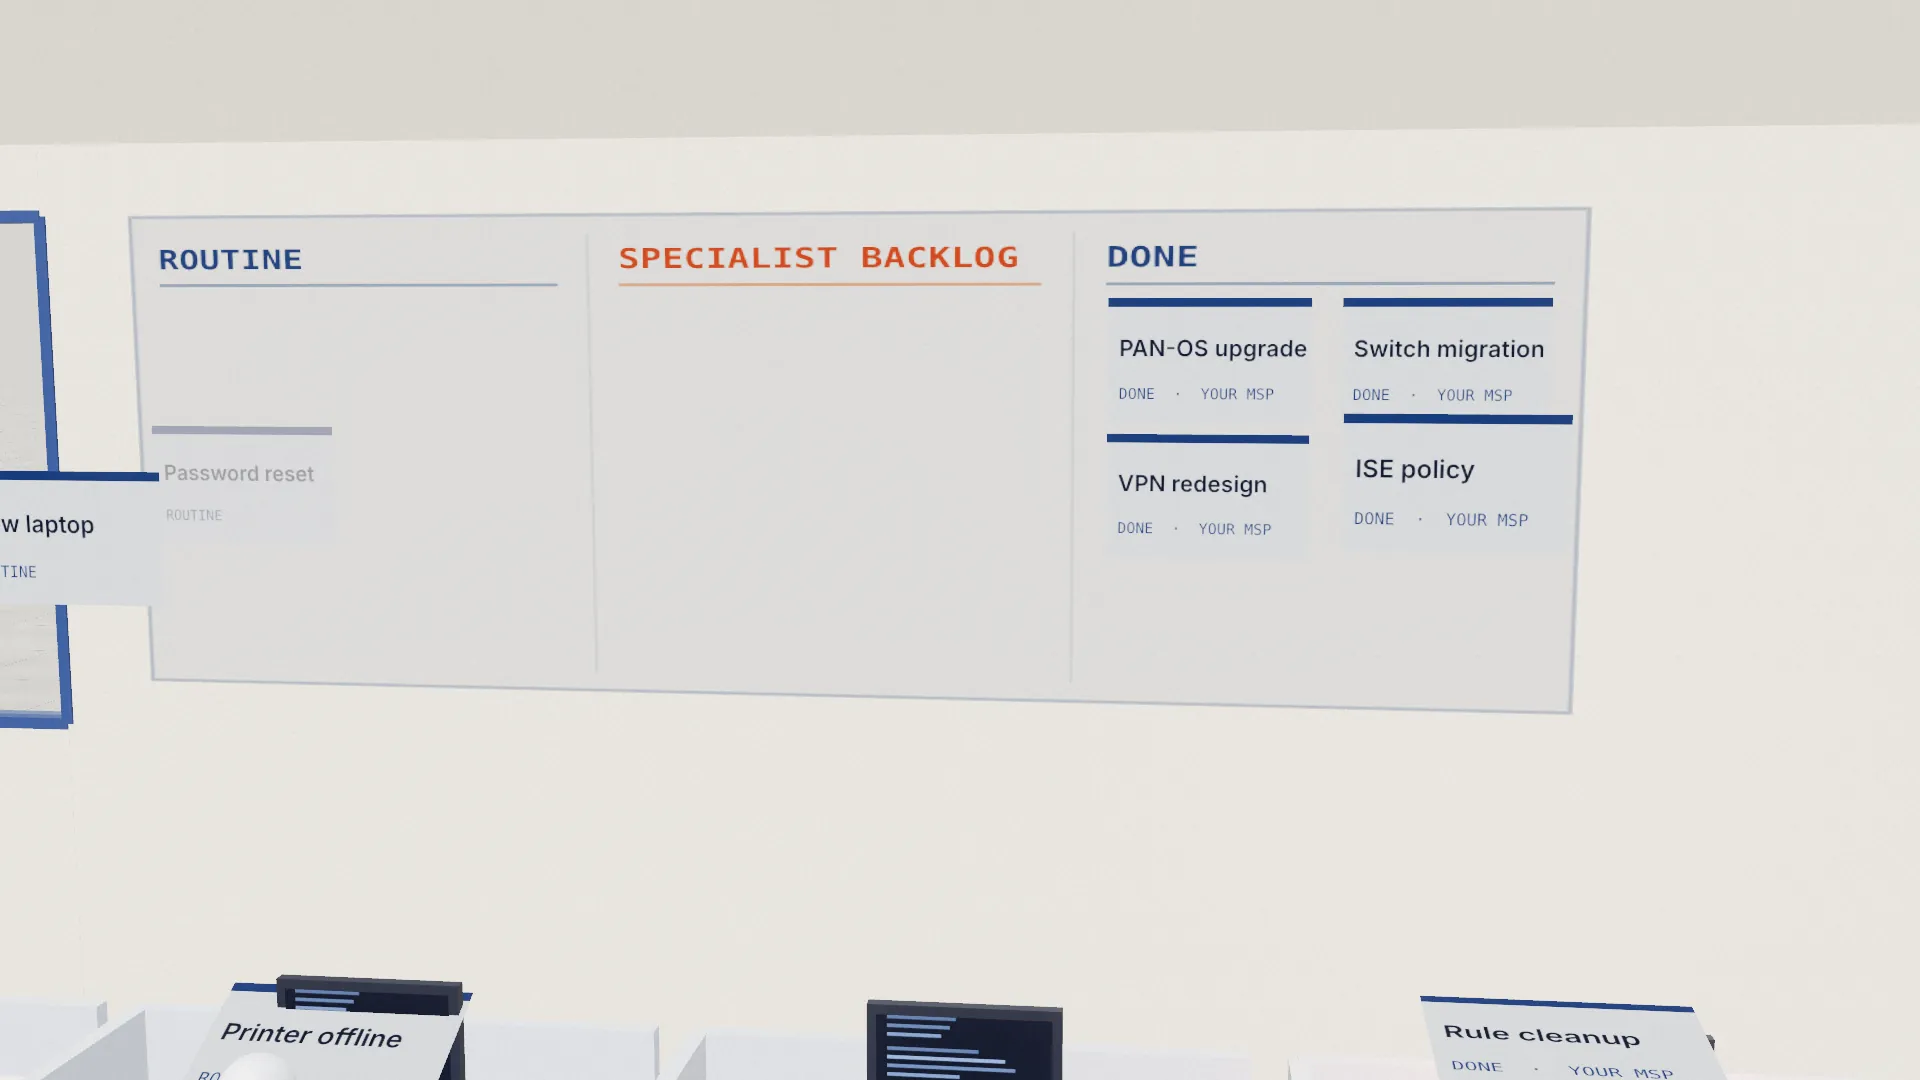
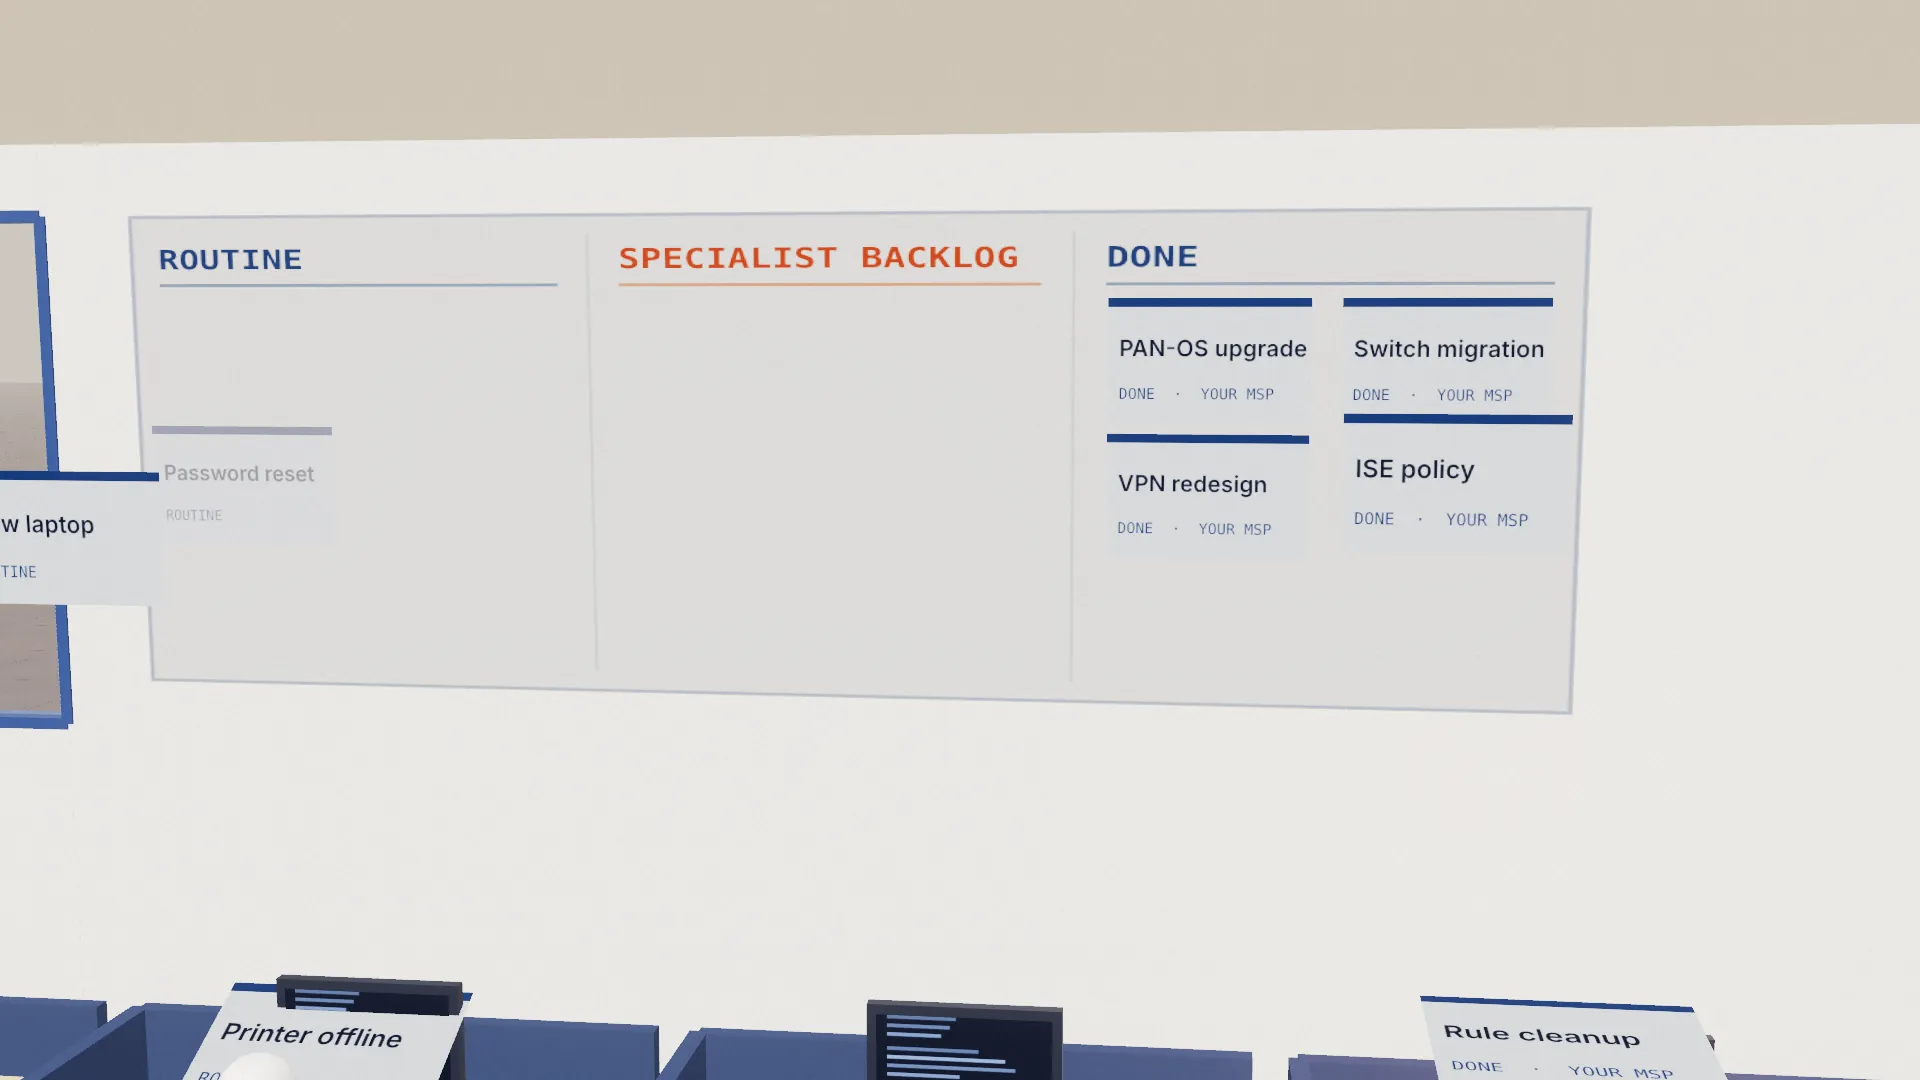
MSP office: richer palette (navy cubicles, walnut floor, oak desks, clay backdrop)
Claude-Session: https://claude.ai/code/session_01HRxsGLBN173gTRBUJFHDZX

diff --git a/stage/scene-msp.js b/stage/scene-msp.js
@@ -51,7 +51,7 @@ function texScreen(THREE, line, bg) {
 export function mspScene(ctx) {
   const { THREE, scene } = ctx;
   scene.fog.density = 0.02;
-  scene.background.setHex(BEIGE); scene.fog.color.setHex(0xefe5d2); // per-scene tint: beige office
+  scene.background.setHex(0xd9c6ae); scene.fog.color.setHex(0xd4bfa5); // per-scene tint: warm clay office
   const V = (x, y, z) => new THREE.Vector3(x, y, z);
   const r = rand(14);
 
@@ -63,8 +63,8 @@ export function mspScene(ctx) {
   const box = (w, h, d, m, x, y, z, parent = scene) => { const b = new THREE.Mesh(new THREE.BoxGeometry(w, h, d), m); b.position.set(x, y, z); parent.add(b); return b; };
 
   // ---------- room: carpet, back wall with a window, client buildings outside ----------
-  box(5.6, 0.004, 2.6, mat(0xe2d7c3), 0, 0.002, -0.35);
-  const wallM = mat(0xece2d0);
+  box(5.6, 0.004, 2.6, mat(0x8a5a3b, { roughness: 0.55 }), 0, 0.002, -0.35);
+  const wallM = mat(0xf4ede2);
   const WALL_H = 2.0;
   const WIN = { x0: -2.75, x1: -1.15, y0: 0.75, y1: 1.85 };
   box(0.25, WALL_H, 0.06, wallM, -2.875, WALL_H / 2, WALL_Z);
@@ -78,7 +78,7 @@ export function mspScene(ctx) {
   glass.position.set((WIN.x0 + WIN.x1) / 2, (WIN.y0 + WIN.y1) / 2, WALL_Z); scene.add(glass);
   // the MSP's clients, seen through the window
   const buildings = [[-2.55, 0.95, -3.0], [-2.2, 1.3, -3.6], [-1.85, 1.1, -3.1], [-1.5, 1.45, -3.8], [-1.25, 1.0, -3.2]].map(([x, h, z]) => {
-    const b = box(0.32, h, 0.32, mat(0xdcd2c0), x, h / 2, z);
+    const b = box(0.32, h, 0.32, mat(0x9fb3cf), x, h / 2, z);
     const beaconM = new THREE.MeshBasicMaterial({ color: NAVY, transparent: true, opacity: 0 });
     const beacon = new THREE.Mesh(new THREE.RingGeometry(0.06, 0.09, 32), beaconM); beacon.rotation.x = -Math.PI / 2; beacon.position.set(x, h + 0.01, z); scene.add(beacon);
     return { b, top: V(x, h + 0.03, z), beacon, beaconM };
@@ -91,8 +91,8 @@ export function mspScene(ctx) {
   const slotOnBoard = (c, k) => V(colX(c) + ((k % 2) - 0.5) * 0.46, BOARD.y + 0.2 - Math.floor(k / 2) * 0.27, WALL_Z + 0.05);
 
   // ---------- cubicles, people, screens ----------
-  const partM = mat(0xc9d2e0), deskM = mat(0xf6f1e8), monM = mat(0x1a2236, { roughness: 0.4 }), chairM = mat(0x2f3b52);
-  const shirtM = mat(NAVY, { roughness: 0.6 }), headM = mat(0xd9dee6, { roughness: 0.6 });
+  const partM = mat(0x2c3e63, { roughness: 0.9 }), deskM = mat(0xd9b98c, { roughness: 0.5 }), monM = mat(0x1a2236, { roughness: 0.4 }), chairM = mat(0x2f3b52);
+  const shirtM = mat(0x1d3a6e, { roughness: 0.6 }), headM = mat(0xf2ece4, { roughness: 0.6 });
   const scrTexN = texScreen(THREE, '#9cc0ff', '#13203a'), scrTexS = texScreen(THREE, '#ffb48a', '#2a1408');
   const desks = DESKS.map((x, i) => {
     const g = new THREE.Group(); g.position.set(x, 0, ROW_Z); scene.add(g);
@@ -132,7 +132,7 @@ export function mspScene(ctx) {
 
   return {
     duration: L,
-    floor: { tile: 0.7, base: 0xe6dcc9, reflect: 0.25 },
+    floor: { tile: 0.7, base: 0x6e4a33, reflect: 0.25 },
     vignette: 0,
     bloom: 0.06,
     exposure: 0.85,

diff --git a/home.css b/home.css
@@ -62,10 +62,10 @@
 .h-hero-inner{padding-bottom:clamp(128px,18vh,200px);text-align:center;pointer-events:none}
 /* Light hero (beige MSP scene): navy type over a cream shade */
 .h-hero .h-st,.h-hero .h-hero-sub,.h-hero .h-hero-shade,.h-hero .h-kicker,.h-hero .h-btn,.h-hero .h-chapter-caption,.h-hero .h-tabs button,.h-hero .h-stepnav button{transition:color .4s ease,background .4s ease,border-color .4s ease,opacity .4s ease}
-.h-hero.is-light{background:#f3ead9}
+.h-hero.is-light{background:#d9c6ae}
 .h-hero.is-light .h-hero-shade{background:
-  radial-gradient(46% 30% at 50% 64%,rgba(243,234,217,.75),rgba(243,234,217,0) 100%),
-  linear-gradient(180deg,rgba(243,234,217,.35) 0%,rgba(243,234,217,0) 14%,rgba(243,234,217,0) 40%,rgba(243,234,217,.7) 60%,rgba(243,234,217,.92) 80%,rgba(243,234,217,.98) 100%)}
+  radial-gradient(46% 30% at 50% 64%,rgba(244,237,226,.8),rgba(244,237,226,0) 100%),
+  linear-gradient(180deg,rgba(244,237,226,.3) 0%,rgba(244,237,226,0) 14%,rgba(244,237,226,0) 40%,rgba(244,237,226,.75) 60%,rgba(244,237,226,.94) 80%,rgba(244,237,226,.98) 100%)}
 .h-hero.is-light .h-st{color:var(--navy-900);text-shadow:0 2px 30px rgba(243,234,217,.7)}
 .h-hero.is-light .h-hero-sub{color:rgba(11,21,38,.82)}
 .h-hero.is-light .h-kicker{color:#b8470f;background:rgba(243,234,217,.88)}

diff --git a/index.html b/index.html
@@ -209,7 +209,7 @@
   <!-- 5. MSP partnership feature.
        Background still rendered from stage/scene-msp.js (v4, the office) at t = 15 s, shift -0.05. -->
   <section class="h-msp" id="msp" aria-labelledby="h-msp-title" data-media-status="poster-preview">
-    <div class="h-msp-media" aria-hidden="true"><img src="/media/msp-feature.webp?v=20261105" alt="" width="1920" height="1080" loading="lazy" /></div>
+    <div class="h-msp-media" aria-hidden="true"><img src="/media/msp-feature.webp?v=20261105b" alt="" width="1920" height="1080" loading="lazy" /></div>
     <div class="h-msp-shade" aria-hidden="true"></div>
     <div class="container h-msp-inner">
       <p class="h-label">For MSPs</p>
